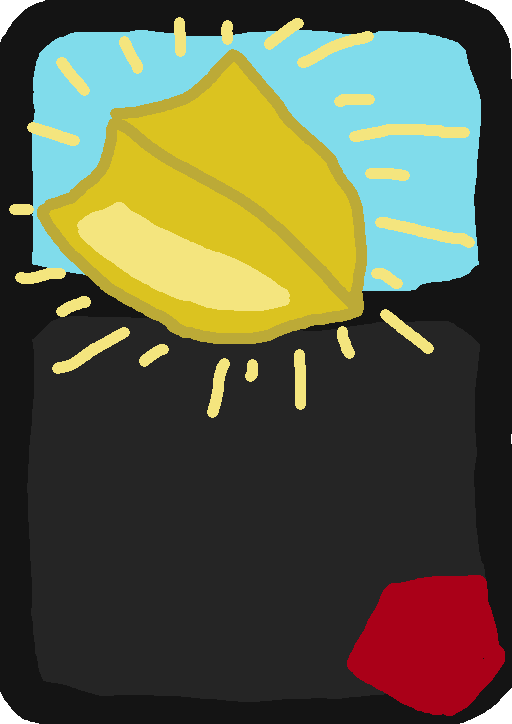
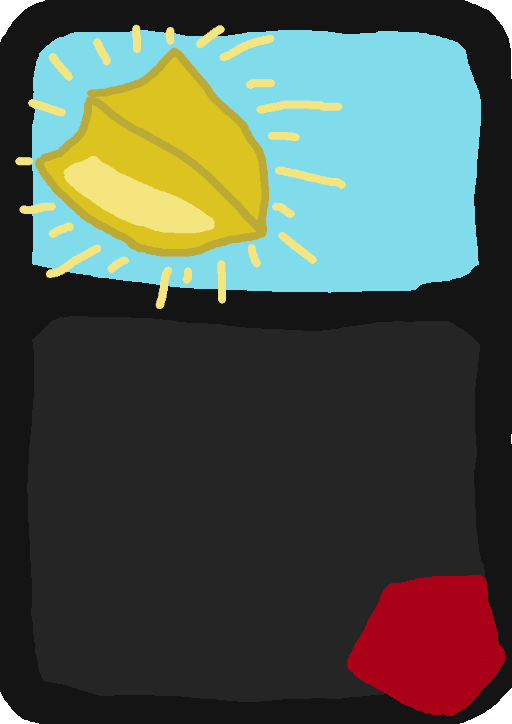
added selectable indicator

diff --git a/game.js b/game.js
@@ -375,6 +375,8 @@ function repaint() {
         //Draw passiveplayer with decks
         ctx.drawImage(passivePlayer.image, deckGap + deckSize / 2, deckGap * 2 + deckSizeY, deckSize, deckSizeY);
 
+        
+
         ctx.font = creatureFont;
 
         ctx.fillText(passivePlayer.health, deckGap + deckSize, deckGap * 2 + deckSizeY + deckSizeY / 32 * 29);
@@ -398,6 +400,10 @@ function repaint() {
 
 
         ctx.fillText(passivePlayer.discardDeck.length, deckGap + deckSize / 2 * 3, deckSizeY + deckGap + 35);
+
+        if((isTargetingMode && isValidPassivePlayer) || (selectedActiveCreatureInt != -1 && !hasPassivePlayerTaunt())){
+            ctx.drawImage(document.getElementById('SelectableImage'), deckGap + deckSize / 2, deckGap * 2 + deckSizeY, deckSize, deckSizeY);
+        }
 
 
 
@@ -517,6 +523,11 @@ function drawActiveCreatures(creatures) {
     for (let i = 0; i < creatures.length; i++) {
         drawCreature(creatures[i], (canvas.width / 2) - (creatures.length * (creatureSize + creatureGap) / 2) + i * (creatureSize + creatureGap),
             canvas.height - handCardSizeY - handCardGap - creatureSizeY - creatureGap, creatureSize);
+
+        if(isTargetingMode && isValidActiveCreatures){
+            ctx.drawImage(document.getElementById('SelectableImage'), (canvas.width / 2) - (creatures.length * (creatureSize + creatureGap) / 2) + i * (creatureSize + creatureGap),
+            canvas.height - handCardSizeY - handCardGap - creatureSizeY - creatureGap, creatureSize, creatureSizeY);
+        }
     }
 }
 
@@ -525,6 +536,11 @@ function drawPassiveCreatures(creatures) {
     for (let i = 0; i < creatures.length; i++) {
         drawCreature(creatures[i], (canvas.width / 2) - (creatures.length * (creatureSize + creatureGap) / 2) + i * (creatureSize + creatureGap),
             handCardSizeY + handCardGap + creatureGap, creatureSize);
+
+        if((isTargetingMode && isValidPassiveCreatures) || (selectedActiveCreatureInt != -1 && (!hasPassivePlayerTaunt() || creatures[i].isTaunt))){
+            ctx.drawImage(document.getElementById('SelectableImage'), (canvas.width / 2) - (creatures.length * (creatureSize + creatureGap) / 2) + i * (creatureSize + creatureGap),
+            handCardSizeY + handCardGap + creatureGap, creatureSize, creatureSizeY)
+        }
     }
 }
 
@@ -698,6 +714,9 @@ function mouseClickedBetweenTurns(x, y) {
 }
 
 function clickedHandcards(x, y) {
+
+    if(isTargetingMode) return;
+
     var selectedHandCardIntTemp = Math.trunc((x - (canvas.width / 2 - activePlayer.hand.length * (handCardSize + handCardGap) / 2)) / (handCardSize + handCardGap));
 
     if (!(selectedHandCardIntTemp > activePlayer.hand.length - 1)) {
@@ -719,6 +738,8 @@ function clickedActiveCreatures(x, y) {
             currentTargetingSpell.play(activePlayer.creatures[selectedActiveCreatureIntTemp]);
             return;
         }
+
+        if(isTargetingMode) return;
 
 
         if (selectedActiveCreatureInt == selectedActiveCreatureIntTemp) {

diff --git a/website.html b/website.html
@@ -10,6 +10,7 @@
 <img style="display: none;" src="images\KidneyStoneLogo.png" id="KidneyStoneLogoImage">
 <img style="display: none;" src="images\BackSide.png" id="BackSideImage">
 <img style="display: none;" src="images\Selected.png" id="SelectedImage">
+<img style="display: none;" src="images\Selectable.png" id="SelectableImage">
 
 <img style="display: none;" src="images\endTurn.png" id="EndTurnImage">
 <img style="display: none;" src="images\nextTurn.png" id="NextTurnImage">
